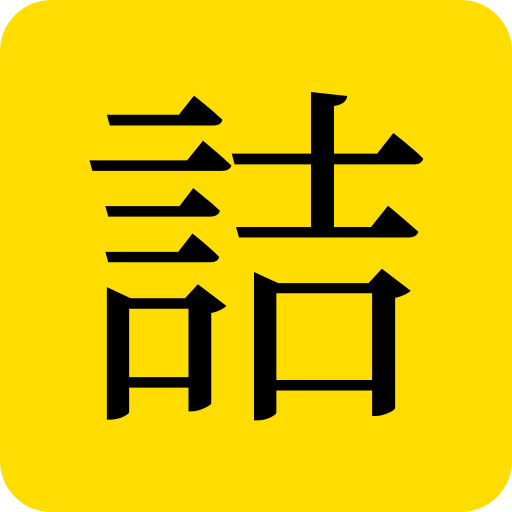
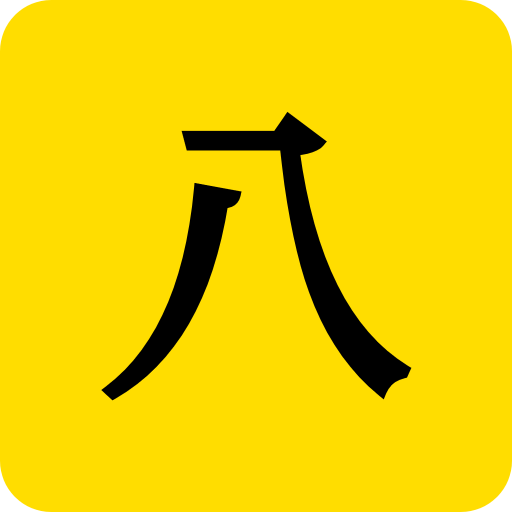
Update title

Changed region(s): [[0.1562, 0.1562, 0.8438, 0.8438]]

diff --git a/README.md b/README.md
@@ -1,6 +1,6 @@
-# 詰将棋メイト
+# 詰将棋エイト
 
-詰将棋メイトは、ブラウザ上で動作する詰将棋・実戦詰アプリです。
+詰将棋エイトは、ブラウザ上で動作する詰将棋・実戦詰アプリです。
 
 王手の連続で相手の玉を詰ますと成功です。駒余り、余詰、無駄合などは許容します。
 
